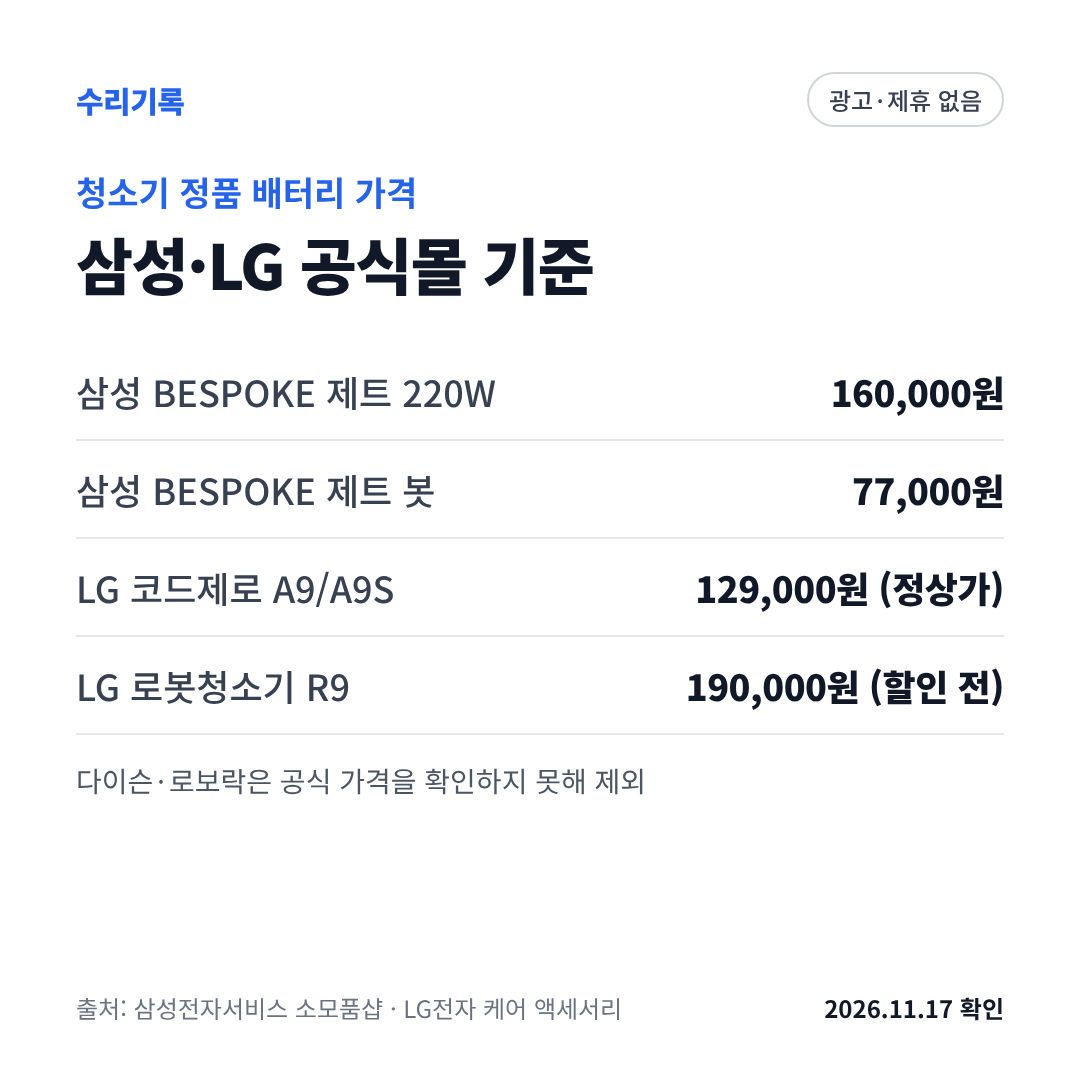
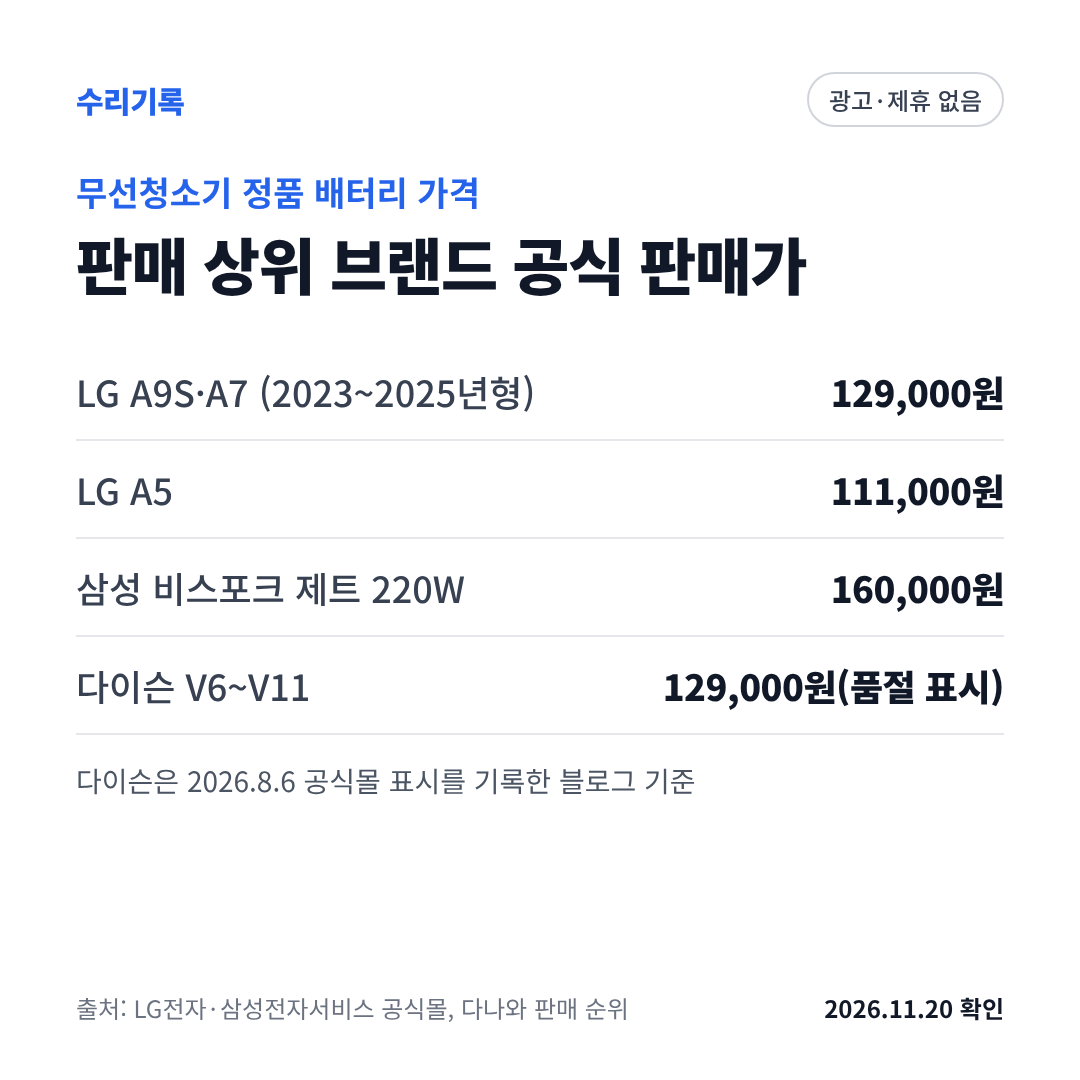
verify-sources: honour robots.txt and recover from browser crashes; post 01 cards and lessons
- robotsAllows(): RFC 9309 longest-match for the generic '*' group; blocked URLs are reported, never opened
- relaunch the headless browser once when it dies mid-run
- cards: post 01 thumbnail/summary/check updated to the broadened scope
- LESSONS §11: scope result, two robots.txt slips (miwhole.co.kr, img.danawa.com) and the tool fix

Claude-Session: https://claude.ai/code/session_01S8aYJMqtEgMRbXyeMmbqGH

diff --git a/research_notes/1편 배터리 글 보강/non_dyson.md b/research_notes/1편 배터리 글 보강/non_dyson.md
@@ -31,13 +31,13 @@
 | AI 제트 400W 대용량·기본 배터리 | 대용량: 핸디 일반 100분, 충전 300분, 흡입력 400W / 기본: 핸디 일반 60분, 충전 210분, 250W | 같은 페이지 | "충전시간 대용량 배터리 300 min / 기본 배터리 210 min" | O | X → curl |
 | AI 제트 400W 대용량 배터리 용량 | 3,970mAh | https://www.samsung.com/sec/vacuum-cleaners/Bespoke-jet-vs90f40cs-d2c/VS90F40CSK/ | "3,970mAh의 대용량 배터리로" | O | X(타임아웃) |
 | 2023년 비스포크 제트 AI 배터리 두 종류 | 일반 250W·60분, 대용량 280W·100분 | https://www.samsungsvc.co.kr/solution/1482790 (게시 2023-06-29) | "대용량배터리 장착 시에는 최대 280W의 흡입력과 최장 100분의 사용시간" | O | O |
-| 해외 부품번호·용량(대용량) | VCA-SBTC97, 25.2V, 3970mAh, 175×83×40mm, 호환 VS28C979FQK | https://www.samsung.com/hk_en/home-appliance-accessories/jet-vc-renewal-accessory-battery3-vca-sbtc97/ | "large capacity battery (3970mAh)" | O | 점검기 결과 §10 |
-| 해외 부품번호·용량(일반) | VCA-SBTC97S, 25.2V, 2200mAh, 152×78×37mm | https://www.samsung.com/hk_en/home-appliance-accessories/jet-vc-renewal-accessory-battery2-vca-sbtc97s/ | "Battery Pack (25.2V) 2200mAh" | O | §10 |
-| 홍콩 삼성의 배터리 보증 조건(홍콩 판매분) | 2년, 정상 마모 제외, 500사이클 미만·잔량 70% 초과 시 무상 교체, 2023년 1월 이후 판매 BESPOKE Jet 전 모델 | VCA-SBTC97 페이지 | "The 2 year warranty is limited to the battery only and excludes normal wear and tear" | O | §10 |
+| 해외 부품번호·용량(대용량) | VCA-SBTC97, 25.2V, 3970mAh, 175×83×40mm, 호환 VS28C979FQK | https://www.samsung.com/hk_en/home-appliance-accessories/jet-vc-renewal-accessory-battery3-vca-sbtc97/ | "large capacity battery (3970mAh)" | O | 점검기 [curl]로 일치 |
+| 해외 부품번호·용량(일반) | VCA-SBTC97S, 25.2V, 2200mAh, 152×78×37mm | https://www.samsung.com/hk_en/home-appliance-accessories/jet-vc-renewal-accessory-battery2-vca-sbtc97s/ | "Battery Pack (25.2V) 2200mAh" | O | 점검기 [curl]로 일치 |
+| 홍콩 삼성의 배터리 보증 조건(홍콩 판매분) | 2년, 정상 마모 제외, 500사이클 미만·잔량 70% 초과 시 무상 교체, 2023년 1월 이후 판매 BESPOKE Jet 전 모델 | VCA-SBTC97 페이지 | "The 2 year warranty is limited to the battery only and excludes normal wear and tear" | O | 점검기 [curl]로 일치 |
 | 삼성 멤버스 배터리 수명·보증 안내(새 주소) | 500 Cycle 후 20~30% 저하, 주 3회 약 2년, 보증 구입 후 2년 | https://community.samsung.com/kr/conversations/18b9c2/%EA%B6%81%EA%B8%88%ED%95%B4%EC%9A%94-%EC%82%BC%EC%84%B1-%EB%AC%B4%EC%84%A0%EC%B2%AD%EC%86%8C%EA%B8%B0-%EC%A0%9C%ED%8A%B8-%EB%B0%B0%ED%84%B0%EB%A6%AC-%EC%88%98%EB%AA%85-%EA%B4%80%EB%A6%AC-%EB%B0%A9%EB%B2%95/r1_24839365 | "500 Cycle 사용 후 20~30% 성능이 떨어져요" / "구입 후 2년이며, 무상 보증 기간 내 불량 발생 시 무상 교체가 가능해요" | O | O |
 | 제트 200W SE용 배터리(DJ96-00227C) 상세 이미지 | "2년 무상보증 배터리" 인증 마크(이미지 alt 문구로 판독), 500회 충방전 후 70% | https://www.samsungsvc.co.kr/shop/product/0000085295 | 이미지 옆 제목 "최대 60분 사용 대용량 배터리" | O(alt 포함) | 본문엔 alt 없음 → 이미지 행 |
 | 220W 배터리(DJ96-00242D) 적용 모델 | VS20A95*·VS20B956AXE 등 143개(다나와 2025 BEST 7위 VS20B956AXE 포함). VS20C·VS25C·VS28·VS30·VS90 없음 | https://www.samsungsvc.co.kr/shop/product/0000090680 | "VS20B956AXE" | O | O |
-| 소모품샵 청소기 배터리 목록 | 9종(DJ96-00205D·00221C·00233A·00234A·00227C·00227A·00242D·00214A·00221A). 9종의 "상품 적용 모델"을 모두 대조했고 VS28D·VS90F·VS25C·VS30D·VS20C 모델은 하나도 없다 | https://www.samsungsvc.co.kr/shop/product?category=10424&directory=10770 | "총 9 개" | O | §10 |
+| 소모품샵 청소기 배터리 목록 | 9종(DJ96-00205D·00221C·00233A·00234A·00227C·00227A·00242D·00214A·00221A). 9종의 "상품 적용 모델"을 모두 대조했고 VS28D·VS90F·VS25C·VS30D·VS20C 모델은 하나도 없다 | https://www.samsungsvc.co.kr/shop/product?category=10424&directory=10770 | Chromium "총 9개의 상품이 있습니다" / curl "총 9 개" → 원장 인용 "총 9개" | O | O |
 | 고객 자가수리 스틱청소기 부품 분류 | 먼지통·필터·아답터·파이프·바디·브러쉬(배터리 분류 없음) | https://www.samsungsvc.co.kr/shop/product?category=175707397&directory=401594162&option=401596793 | "먼지통 필터 아답터 파이프 바디 브러쉬" | O | 미시험 |
 
 부품번호·가격 결론
@@ -64,11 +64,11 @@
 | EAC63382216에 2024 A9S·A7 Core·A9 AI 포함 | AX920BWE, AX958BWE, A720WA, AI958WA, AS720WA, AS920CWD, AX9604WE 등 | 같은 페이지 | "AX920BWE.AKOR (O920BWE.AKOR)", "A720WA.CKOR (O720WA.CKOR)" | O | → curl |
 | EAC63382208 적용 모델 수 | 263개(A9100·A9300·A9570·AS9·AT9·AU9 계열 등), 리뷰 1,679개 | https://www.lge.co.kr/care-accessories/a9-vacuum-cleaner/eac63382208 | "사용 가능한 모델 (총 263개)" | O | → curl |
 | EAC63382214 단품 페이지 | LGE.COM에 없음(`/care-accessories/a9-vacuum-cleaner/eac63382214`, `/product/...` 둘 다 404). 호환표에는 216과 함께 표기 | — | — | 404 | — |
-| A5 배터리 COV30090401 | 정상가 111,000원, 회원할인가 105,400원(5%), 리뷰 6개, 용량 표기 없음 | https://www.lge.co.kr/product/care-accessories/a9-vacuum-cleaner/cov30090401 | "청소기 A5 배터리" | O | O |
-| A5 본체 정격전압 | DC 18.5V(A9S·A7 Core는 25.2V) | https://www.lge.co.kr/product/vacuum-cleaners/as520wa | "정격전압 (V) (DC) 18.5" | O | 점검기 §10 |
+| A5 배터리 COV30090401 | 정상가 111,000원, 회원할인가 105,400원(5%), 리뷰 6개, 용량 표기 없음 | https://www.lge.co.kr/product/care-accessories/a9-vacuum-cleaner/cov30090401 | "COV30090401" ("청소기 A5 배터리"는 점검기 숫자 결합 규칙 때문에 불일치) | O | O |
+| A5 본체 정격전압 | DC 18.5V(A9S·A7 Core는 25.2V) | https://www.lge.co.kr/product/vacuum-cleaners/as520wa | Chromium "정격전압 (V) (DC)18.5" / curl "정격전압 (V) (DC) 18.5" | O | O |
 | 연식별 호환표(LG 문구) | 23~25년 A9S 배터리 = EAC63382214·EAC63382216 / 19~22년 = EAC63382208·EAC63382212 / 19년 이전 = EAC63382202·EAC63758601 | https://www.lge.co.kr/product/vacuum-cleaners/a720wa | "2019~2022년 출시 A9S/A9 제품은 19년~22년 출시 배터리 및 23년 출시 배터리 사용 가능합니다" | O | O |
 | 같은 표의 다른 주석 | 2023년 출시 A9S는 2023년 출시 배터리만, 2019년 이전 A9는 19년 이전·19~22년 배터리 | 같은 페이지 | "2023년 출시 A9S 제품은 2023년 출시 배터리 사용 가능합니다." | O | O |
-| 본체 출시 연월 확인 위치 | 각 제품 스펙의 "동일모델의 출시년월"(예: AX920BWE 2024-03, A720WA 2025-03, AS520WA 2025-02) | https://www.lge.co.kr/product/vacuum-cleaners/ax920bwe | "정격전압 (V) (DC) 25.2" (같은 표에 "동일모델의 출시년월 2024-03") | O | §10 |
+| 본체 출시 연월 확인 위치 | 각 제품 스펙의 "동일모델의 출시년월"(예: AX920BWE 2024-03, A720WA 2025-03, AS520WA 2025-02) | https://www.lge.co.kr/product/vacuum-cleaners/ax920bwe | Chromium "정격전압 (V) (DC)25.2" / curl "정격전압 (V) (DC) 25.2" (같은 표에 "동일모델의 출시년월 2024-03") | O | O |
 | A9 배터리와 A9S 배터리 구분 | 충전 단자 모양: 동그란 구멍 3개(A9/A9S 배터리) vs 사각 구멍에 작은 사각 홈 4개(A9S 배터리) | https://www.lge.co.kr/product/care-accessories/a9-vacuum-cleaner/eac63382208 | 이미지 alt: "작은 동그란 구멍이 3개가 나열 되어있으며 A9S 배터리 충전단자 모양은 사각형 구멍에 작은 사각형 흠 4개" / 본문 앵커: "구매하시기 전에 사용하시는 청소기의 동일한 배터리인지 확인해 주세요" | O(alt) | 본문엔 alt 없음 → 이미지 행 |
 | 모델명 확인 방법(LG 고객지원, 2026-05-29, 조회 160,457) | 배터리를 빼고 안쪽 은색 라벨 | https://www.lge.co.kr/support/solutions-20150332172261 | "밧데리 제거 후 안쪽면 은색 라벨" | O | O |
 | A9 AI(2025)의 배터리 수명 표시 | 본체 화면에서 잔량과 수명 표시, 이상 시 씽큐 알림 | https://www.lg.co.kr/media/release/28915 (2025-04-30) | "제품에 탑재된 화면에서 배터리 잔량뿐 아니라 수명까지 확인 가능" | O | O |
@@ -123,7 +123,7 @@
 | 사실 | 값 | URL | 인용 |
 |---|---|---|---|
 | 파워클론 슬림 CVC-G820NWM(2024년형) | 배터리 분리형 1개, 리튬이온 2000mAh, 최대 55분, 다나와 최저가 182,690원, 본체 안전확인 YU102096-24001 | https://prod.danawa.com/info/?pcode=61842860 | "배터리용량 2000mAh" / "안전확인인증 YU102096-24001" |
-| 파워클론 하이퍼 CVC-HE0710EG(2025년형) | 2,000mAh, 최대 35분, 최저가 223,250원, 안전확인 YU102201-25001 | https://prod.danawa.com/info/?pcode=94445447 | "배터리용량 2,000mAh" |
+| 파워클론 하이퍼 CVC-HE0710EG(2025년형) | 2,000mAh, 최대 35분, 최저가 223,250원, 안전확인 YU102201-25001 | https://prod.danawa.com/info/?pcode=94445447 | "2,000mAh" (Chromium 본문에서는 "배터리용량 2,000mAh"가 이어져 있지 않음) |
 | 쿠쿠 배터리 단품 가격·부품번호·보증 | 찾지 못함 | — | — |
 
 - 다나와 "쿠쿠 무선청소기 배터리" 검색 상위 6개는 모두 본체였다. cuckoo.co.kr은 403, mall·service 서브도메인은 연결 실패(502), cuckoo.co.kr·m.cuckoo.co.kr의 robots.txt는 302로 넘어갔다.
@@ -137,7 +137,7 @@
 | 접수 경로 | 고객센터 1644-9245 또는 카카오톡 '샤크닌자', 평일 09:00~18:00 | https://www.sharkninja.co.kr/ | "샤크닌자 고객센터(1644-9245) 또는 카카오톡에서 '샤크닌자'를 검색해 문의해 주세요" | O | X(타임아웃) → curl |
 | 무선청소기 무상 수리 기간 | 최대 3년(기본 1년), 공식몰 구매 후 제품 등록 시만 연장, 본체 기능 고장만 | 같은 페이지 | "최대 3년* (기본 1년)" | O | → curl |
 | 배터리 제외 | 연장 무상수리에서 배터리 제외 | 같은 페이지 | "배터리, 필터, 칼날 등 소모품 및 액세서리는 제외됩니다" | O | → curl |
-| 공식몰 배터리 단품 | Accessories 50개 중 배터리는 "샤크 무선청소기 WV250 배터리"(핸디형, 자체상품코드 XSBT250KR) 하나, 49,000원, 품절 | https://www.sharkninja.co.kr/product/%EC%83%A4%ED%81%AC-%EB%AC%B4%EC%84%A0%EC%B2%AD%EC%86%8C%EA%B8%B0-wv250-%EB%B0%B0%ED%84%B0%EB%A6%AC/299/category/142/display/1/ | "XSBT250KR" / "품절 재입고 알림 신청" | O | §10 |
+| 공식몰 배터리 단품 | Accessories 50개 중 배터리는 "샤크 무선청소기 WV250 배터리"(핸디형, 자체상품코드 XSBT250KR) 하나, 49,000원, 품절 | https://www.sharkninja.co.kr/product/%EC%83%A4%ED%81%AC-%EB%AC%B4%EC%84%A0%EC%B2%AD%EC%86%8C%EA%B8%B0-wv250-%EB%B0%B0%ED%84%B0%EB%A6%AC/299/category/142/display/1/ | "XSBT250KR" / "품절 재입고 알림 신청" | O | 점검기 [curl]로 일치 |
 | 스틱(에보파워 LC·파워클린 IW) 배터리 단품 | 공식몰 Accessories 1~5쪽 어디에도 없음 | https://www.sharkninja.co.kr/category/Accessories/142/ | — | O | — |
 
 - 공식몰 첫 화면 배너 문구는 "최대 4년* 무상 수리 서비스"지만, 4년은 선풍기 등 계절성 제품(기본 2년)이다. 무선청소기는 최대 3년이다.
@@ -211,7 +211,26 @@ D. 이미 원고에 있는 LG전자 고객센터 회신(2026-11-18, `firsthand`)
 
 ## 10. 점검기 실측(verify-sources)
 
-<!-- 결과는 실행 후 아래에 붙인다 -->
+방법: 위 원장 후보 행을 임시 원고(스크래치 폴더)에 넣고 `NODE_PATH=$(npm root -g) node scripts/verify-sources.mjs <임시원고> --evidence=<스크래치>`로 실행했다(`--write` 없음, 저장소 파일 변경 없음). 미홀 행은 robots 때문에 넣지 않았다.
+
+1차(57행): 일치 49, 이미지 1, 불일치 7. 불일치 원인과 조치
+- 삼성 소모품샵 목록 "총 9 개": Chromium 본문은 "총 9개의 상품이 있습니다". → 인용을 "총 9개"로 바꿈(curl 본문 "총 9 개"도 점검기의 숫자·단위 결합 뒤 "총 9개"가 됨).
+- LG A5 배터리 "청소기 A5 배터리": 점검기가 본문의 "숫자+공백+배"를 붙여("A5 배터리" → "A5배터리") 인용과 어긋남. → 인용 "COV30090401". 같은 이유로 "A7 배터리"가 들어간 번들 인용도 "배터리모델명EAC63382216"으로 바꿈.
+- LG 정격전압 2건: Chromium 본문은 "정격전압 (V) (DC)18.5"처럼 붙어 있다(curl은 띄어 씀). → Chromium 형태로 바꿈. Chromium이 실패해 curl로 넘어가면 이 두 행은 불일치가 난다.
+- LG 배터리턴 "156톤 / 34만 개": 값 칸의 "34만"을 점검기가 340,000으로 바꿔 대조. → 값 칸을 "156톤"으로 줄임.
+- 쿠쿠 하이퍼 "배터리용량 2,000mAh": Chromium 본문에서 두 낱말이 이어져 있지 않음. → 인용 "2,000mAh".
+
+2차(수정 10행 + 단독 1행): 모두 일치(계산 2, 이미지 1 포함). "모든 출처 기록이 원문과 일치합니다."
+
+읽기 경로(점검기 표시)
+- [browser]: community.samsung.com, samsungsvc.co.kr 상품·목록, lge.co.kr 상품·케어액세서리·고객지원·기획전, lg.co.kr 보도자료, ksa.or.kr, prod.danawa.com
+- [curl](Chromium 실패 후 대체): samsung.com/sec 지원·상품 페이지, samsung.com/hk_en, lg.com/au·ca_en(Chromium은 Access Denied 403), samsungsvc.co.kr/solution/1482790, sharkninja.co.kr, consumernews.co.kr
+- curl 대체 경로에서 띄어쓰기가 달라지는 행: KS-SQI 인용("7 개 업종에서는 1 위"), LG 정격전압 2건, LG 번들 행. Chromium이 뜨지 않는 날에는 이 행들이 불일치로 나온다.
+
+점검기 동작에서 확인한 제약(원고 작성 시 주의)
+- 값 칸의 단위는 원·%·년·회·개월·건·명·배·시간 등만 숫자로 대조한다. mAh·V·W·분 값은 인용 문구로만 확인된다.
+- 값 칸의 "17만 원", "77만9000원", "34만 개"는 170,000원 등으로 바뀌어 대조되므로, 기사 원문이 한국식 금액이면 값 칸에 넣지 말고 인용 문구에 둔다.
+- 인용 문구에 "숫자 + 공백 + (%·원·년·건·개월·회·명·배)"가 있으면 본문 쪽만 붙여져 항상 불일치한다.
 
 ---
 
@@ -241,12 +260,12 @@ D. 이미 원고에 있는 LG전자 고객센터 회신(2026-11-18, `firsthand`)
   - AX920BWE | https://www.lge.co.kr/care-accessories/a9-vacuum-cleaner/eac63382216 | 2026-11-20 | EAC63382216 적용 모델에 2024년형 A9S 올인원타워 AX920BWE 포함 | AX920BWE.AKOR (O920BWE.AKOR)
   - A720WA | https://www.lge.co.kr/care-accessories/a9-vacuum-cleaner/eac63382216 | 2026-11-20 | EAC63382216 적용 모델에 A7 Core A720WA 포함 | A720WA.CKOR (O720WA.CKOR)
   - 263개 | https://www.lge.co.kr/care-accessories/a9-vacuum-cleaner/eac63382208 | 2026-11-20 | EAC63382208(19~22년형) 적용 모델 수 | 사용 가능한 모델 (총 263개)
-  - 111,000원 / 105,400원 / 5% | https://www.lge.co.kr/product/care-accessories/a9-vacuum-cleaner/cov30090401 | 2026-11-20 | LG A5 배터리 COV30090401 정상가·회원할인가(용량 표기 없음) | 청소기 A5 배터리
-  - 18.5V | https://www.lge.co.kr/product/vacuum-cleaners/as520wa | 2026-11-20 | LG A5 본체 정격전압(A9S·A7 Core는 25.2V) | 정격전압 (V) (DC) 18.5
-  - 25.2V | https://www.lge.co.kr/product/vacuum-cleaners/ax920bwe | 2026-11-20 | A9S AX920BWE 정격전압, 동일모델 출시 2024-03 | 정격전압 (V) (DC) 25.2
+  - 111,000원 / 105,400원 | https://www.lge.co.kr/product/care-accessories/a9-vacuum-cleaner/cov30090401 | 2026-11-20 | LG A5 배터리 COV30090401 정상가·회원할인가(할인율 5%, 용량 표기 없음) | COV30090401
+  - 18.5V | https://www.lge.co.kr/product/vacuum-cleaners/as520wa | 2026-11-20 | LG A5 본체 정격전압(A9S·A7 Core는 25.2V). 인용은 Chromium 본문 형태 | 정격전압 (V) (DC)18.5
+  - 25.2V | https://www.lge.co.kr/product/vacuum-cleaners/ax920bwe | 2026-11-20 | A9S AX920BWE 정격전압, 동일모델 출시 2024-03. 인용은 Chromium 본문 형태 | 정격전압 (V) (DC)25.2
   - 23~25년 | https://www.lge.co.kr/product/vacuum-cleaners/a720wa | 2026-11-20 | LG 배터리 호환표: 19~22년형 본체는 23년형 배터리도 사용 가능 | 2019~2022년 출시 A9S/A9 제품은 19년~22년 출시 배터리 및 23년 출시 배터리 사용 가능합니다
   - 2023년 출시 | https://www.lge.co.kr/product/vacuum-cleaners/a720wa | 2026-11-20 | LG 배터리 호환표: 2023년 이후 A9S는 23년형 배터리만 | 2023년 출시 A9S 제품은 2023년 출시 배터리 사용 가능합니다
-  - 100,400원 / 22% | https://www.lge.co.kr/product/vacuum-cleaners/a720wa | 2026-11-20 | A720WA와 함께 살 때의 번들할인가(배터리 단품가 아님) | 청소기 A9/A9S/A7 배터리 모델명 EAC63382216
+  - 100,400원 / 22% | https://www.lge.co.kr/product/vacuum-cleaners/a720wa | 2026-11-20 | A720WA와 함께 살 때의 번들할인가(배터리 단품가 아님). 인용은 Chromium 본문 형태 | 배터리모델명EAC63382216
   - 단자 모양 | https://www.lge.co.kr/product/care-accessories/a9-vacuum-cleaner/eac63382208 | 2026-11-20 | 이미지: A9/A9S 배터리는 충전 단자에 동그란 구멍 3개, A9S 배터리는 사각 구멍에 사각 홈 4개(이미지 alt로 판독) 캡처:lg-terminal@다음이미지 | 구매하시기 전에 사용하시는 청소기의 동일한 배터리인지 확인해 주세요
   - 모델 확인 | https://www.lge.co.kr/support/solutions-20150332172261 | 2026-11-20 | LG 고객지원(2026-05-29): 배터리 모델은 배터리를 뺀 안쪽 은색 라벨로 확인 | 밧데리 제거 후 안쪽면 은색 라벨
   - 교체 주기 미지정 | https://www.lge.co.kr/support/solutions-20150332172261 | 2026-11-20 | LG 고객지원(2026-05-29): 기간 기준 교체 주기 없음. solutions-20150373882418의 '권장 주기 2년'과 다름 | 기간에 따른 권장 교체 주기는 별도로 지정되어 있지 않습니다
@@ -260,14 +279,14 @@ D. 이미 원고에 있는 LG전자 고객센터 회신(2026-11-18, `firsthand`)
   - 46,530원 | https://prod.danawa.com/info/?pcode=31642349 | 2026-11-20 | 다나와 최저가: 삼성 제트 70(VS15T7032P4) 호환 배터리, 가격갱신일 2026.11.15 | VCA-SBT90E
   - KC 미표시 | https://prod.danawa.com/info/?pcode=56139131 | 2026-11-20 | 다나와는 호환 배터리 KC 번호를 '판매 사이트 문의'로만 표시 | 상세설명 / 판매 사이트 문의
   - 2000mAh | https://prod.danawa.com/info/?pcode=61842860 | 2026-11-20 | 쿠쿠 파워클론 슬림 CVC-G820NWM 배터리(분리형 1개, 최대 55분) | 배터리용량 2000mAh
-  - 2,000mAh | https://prod.danawa.com/info/?pcode=94445447 | 2026-11-20 | 쿠쿠 파워클론 하이퍼 CVC-HE0710EG 배터리(최대 35분) | 배터리용량 2,000mAh
+  - 2,000mAh | https://prod.danawa.com/info/?pcode=94445447 | 2026-11-20 | 쿠쿠 파워클론 하이퍼 CVC-HE0710EG 배터리(최대 35분) | 2,000mAh
   - 1644-9245 | https://www.sharkninja.co.kr/ | 2026-11-20 | 샤크닌자 A/S 접수: 고객센터·카카오톡 | 샤크닌자 고객센터(1644-9245) 또는 카카오톡에서 '샤크닌자'를 검색해 문의해 주세요
   - 3년 / 1년 | https://www.sharkninja.co.kr/ | 2026-11-20 | 샤크닌자 무선청소기 무상수리 최대 3년(기본 1년), 공식몰 구매 후 등록 시 | 최대 3년* (기본 1년)
   - 배터리 제외 | https://www.sharkninja.co.kr/ | 2026-11-20 | 샤크닌자 연장 무상수리에서 배터리 제외 | 배터리, 필터, 칼날 등 소모품 및 액세서리는 제외됩니다
   - 49,000원 | https://www.sharkninja.co.kr/product/%EC%83%A4%ED%81%AC-%EB%AC%B4%EC%84%A0%EC%B2%AD%EC%86%8C%EA%B8%B0-wv250-%EB%B0%B0%ED%84%B0%EB%A6%AC/299/category/142/display/1/ | 2026-11-20 | 샤크 공식몰 유일한 배터리 단품(핸디형 WV250용, 품절). 스틱 배터리 단품 없음 | XSBT250KR
   - 10월 1일 / 11월 30일 | https://www.lg.co.kr/media/release/30631 | 2026-11-20 | LG전자 보도자료(2026-10-02) 배터리턴 하반기 기간 | LG전자는 10월 1일부터 11월 30일까지 배터리턴 캠페인을 진행한다
   - 제조사 무관 | https://www.lg.co.kr/media/release/30631 | 2026-11-20 | 타사 무선청소기 폐배터리도 LG 서비스센터·LGE.COM으로 반납 | 제조사와 관계없이 사용하던 무선청소기 폐배터리를
-  - 156톤 / 34만 개 | https://www.lg.co.kr/media/release/30631 | 2026-11-20 | 2022년부터 2026년 상반기까지 누적 수거량 | 약 156톤, 수량은 34만 개가 넘는다
+  - 156톤 | https://www.lg.co.kr/media/release/30631 | 2026-11-20 | 2022년부터 2026년 상반기까지 누적 수거량(34만 개는 인용 문구로만 대조) | 약 156톤, 수량은 34만 개가 넘는다
   - 30,000원 | https://www.lge.co.kr/benefits/exhibitions/detail-PE01017005 | 2026-11-20 | 배터리턴: 서비스센터에 배터리 반납 후 A9/A9S/A7 정품 배터리 구매 시 할인 | 단일 품목 반납/구매 시 30,000원 할인
   - 99,000원 | https://www.lge.co.kr/benefits/exhibitions/detail-PE01017005 | 2026-11-20 | 배터리턴: 센터 반납 시 최종 혜택가(소비자가 129,000원) | 최종 혜택가: 99,000원
   - 104,000원 / 19% | https://www.lge.co.kr/benefits/exhibitions/detail-PE01017005 | 2026-11-20 | 배터리턴: 온라인 구매(회원 5%+추가 15%) | 최대혜택가: 104,000원 (19% 할인)

diff --git a/research_notes/1편 배터리 글 보강/dyson.md b/research_notes/1편 배터리 글 보강/dyson.md
@@ -24,7 +24,7 @@
 
 **1-1. 국내 공식몰 가격(제3자 블로그가 공식몰을 확인한 값)**
 - 값: V6 967810-24, V7 968670-02, V8 슬림 969106-01, V10 969352-02, V11 970145-04 모두 129,000원, 다섯 모델 모두 품절(블로그 확인일 2026-08-06)
-- URL: https://earn-on-everything.com/entry/%EB%8B%A4%EC%9D%B4%EC%8A%A8-%EC%B2%AD%EC%86%8C%EA%B8%B0-v6-v7-v8-v10-%EB%B0%B0%ED%84%B0%EB%A6%AC-%EC%85%80%ED%94%84-%EA%B5%90%EC%B2%B4-%EB%B0%A9%EB%B2%95-%EA%B5%AC%EB%A7%A4-%EB%B0%A9%EB%B2%95/ (글 갱신 2026-08-05 표기, 2023-09-19 최초 작성)
+- URL: https://earn-on-everything.com/entry/%EB%8B%A4%EC%9D%B4%EC%8A%A8-%EC%B2%AD%EC%86%8C%EA%B8%B0-v6-v7-v8-v10-%EB%B0%B0%ED%84%B0%EB%A6%AC-%EC%85%80%ED%94%84-%EA%B5%90%EC%B2%B4-%EB%B0%A9%EB%B2%95-%EA%B5%AC%EB%A7%A4-%EB%B0%A9%EB%B2%95/ (페이지 날짜 표기 2026-08-05·2023-09-19)
 - 인용: "V6~V11 모두 129,000원" / "2026-08-06 다이슨 공식 사이트에서 확인한 값입니다"
 - 로딩: curl 200, Chromium 200 (검증 결과는 8절)
 - 신뢰도: 중간 이하. 제휴 링크가 붙은 정보성 블로그이며 공식 원문은 차단으로 대조하지 못했습니다. 원고에는 "다이슨 공식몰 표시가(제3자 확인, 2026-08 기준)"처럼 출처 성격을 밝히는 편이 안전합니다.
@@ -258,9 +258,10 @@ URL
   - 60분 | https://zdnet.co.kr/view/?no=20210525135243 | 2026-11-20 | V15 디텍트·V12 디텍트 슬림 2021-05-25 국내 출시, 일반 모드 사용 시간 | 모두 일반 모드로 사용시 60분 이용 가능하며
   - 129만원 | https://zdnet.co.kr/view/?no=20210525135243 | 2026-11-20 | 계산: 원문 129만원 표기 — V15 디텍트 국내 출시가(V12 디텍트 슬림 109만원) | V15 디텍트 무게는 3kg며, 가격은 129만원이다.
   - 70분 | https://m.seoul.co.kr/news/2022/09/27/20220927019009 | 2026-11-20 | Gen5 디텍트 국내 공개(2022-09) 최장 연속 사용 시간(Chromium 시간 초과, curl 200) | 최장 70분 연속 사용이 가능하다
-  - 월 1회 완전 방전 | https://www.techradar.com/home/vacuums/how-to-preserve-your-dyson-vacuum-battery | 2026-11-20 | TechRadar 2026-01-15가 인용한 다이슨 배터리 관리 페이지 권고(다이슨 원문은 차단) | drain to completely empty at least once a month
+  - 완전 방전 once a month | https://www.techradar.com/home/vacuums/how-to-preserve-your-dyson-vacuum-battery | 2026-11-20 | TechRadar 2026-01-15가 인용한 다이슨 배터리 관리 페이지 권고(다이슨 원문은 차단) | drain to completely empty at least once a month
   - 3°C | https://www.techradar.com/home/vacuums/how-to-preserve-your-dyson-vacuum-battery | 2026-11-20 | 3°C 미만에서 작동·충전 안 됨(TechRadar 인용) | won't charge or operate if the temperature is below 37F / 3C
   - Auto·Normal 모드 | https://www.techradar.com/home/vacuums/how-to-preserve-your-dyson-vacuum-battery | 2026-11-20 | 다이슨 문구 인용: 평소엔 Auto·Normal, Max·Boost는 짧게 | designed to be used in Auto or Normal mode for everyday cleaning
+  - 식힌 뒤 충전(BMS) | https://www.techradar.com/home/vacuums/how-to-preserve-your-dyson-vacuum-battery | 2026-11-20 | 다이슨 Head of Electrical Power Systems Amit Gupta 설명: BMS가 배터리가 식은 뒤 충전 시작 | will only initiate charging once it has cooled to the recommended level
   - 80% | https://www.techradar.com/news/james-dyson-promises-15-year-battery-life-for-the-cyclone-v10-cordless-vacuum | 2026-11-20 | James Dyson 2018-03 발언(V10 출시): 15년 매일 사용 시 80% | Fifteen years of daily use might get you down to 80% battery
   - 800 cycles | https://www.techradar.com/news/james-dyson-promises-15-year-battery-life-for-the-cyclone-v10-cordless-vacuum | 2026-11-20 | 같은 기사: V10 배터리 충전 사이클 800회 | battery is good for 800 charge cycles
 
@@ -275,7 +276,7 @@ URL
 6. 2024~2026년 직구·병행수입품 처리 정책 — 공식 문서는 설명서의 "구입한 국가에서 사용할 때만 유효" 문구, 언론은 2019년 기사뿐. 블로그 글은 근거 미표시.
 7. 다이슨 해외 지원 페이지의 교체 신호("12회 이상 깜빡임", "MAX가 아닌 모드에서도 사용 시간 감소")와 V8 나사 3개 교체 안내 원문 — 다이슨 사이트 차단, 설명서에 해당 문구 없음.
 8. 다이슨 한국 2023-11 AS 정책 원문(뉴스룸)·판매 약관(terms-of-sale) — 차단. 내용은 ZDNet 2023-11-22로 대체.
-9. V12 디텍트 슬림 등 다나와 표가 "배터리 분리형"을 적지 않은 모델(V8 2021, 싸이클론 V10)의 배터리 방식 — 다나와에는 칸이 없습니다. V11 설명서(교체형)와 기존 조사(V8·V10 나사 고정형)로 보완해야 합니다.
+9. 다나와 표에 배터리 분리 여부가 없는 모델(V8 2021, 싸이클론 V10)의 배터리 방식 — 기존 조사(V8·V10 나사 고정형, iFixit·설명서)로 보완해야 합니다.
 
 [판단] 공식 가격·출시가를 원문으로 넣으려면 다이슨 코리아 페이지를 사람이 일반 브라우저로 열어 캡처하는 방식을 허용할지 정해야 합니다. [현장] 다이슨 고객센터(1588-4253) 문의 1건이면 모델별 배터리 가격, 센터 교체 공임, 직구품 접수 여부를 한 번에 받을 수 있습니다.
 
@@ -287,7 +288,7 @@ URL
 | www.dyson.co.th | 200(제품 경로 미차단) | 제품 페이지 1회 403(Cloudflare), 이후 다이슨 사이트 시도 중단 |
 | www.dyson.hk / www.dyson.in / www.dyson.co.id | 200 | robots만 받고 페이지는 열지 않음(다이슨 사이트 차단 방침) |
 | community.dyson.com | TLS 핸드셰이크 실패 | 미열람 |
-| prod.danawa.com | 200, `/info/?pcode=` 허용 | 7개 상품 200. Chromium 본문은 사양표 칸 공백 없음, 21760133은 networkidle 시간 초과 |
+| prod.danawa.com | 200, `/info/?pcode=` 허용 | 10개 상품 200. Chromium 본문은 사양표 칸 공백 없음, 21760133은 networkidle 시간 초과 |
 | price.enuri.com | 200, 허용(crawl-delay 1) | V8(2021) 1건 200 |
 | www.safetykorea.kr | 200, 전체 허용 | certDetail GET 200(curl), Chromium 502. XU101904-20007은 "인증정보가 존재하지 않습니다" |
 | www.kurly.com | 200, `*` 허용 | 상품 4건 200(다이슨 본체만, 배터리 미판매) |
@@ -310,3 +311,5 @@ URL
 | www.conrad.com | 403 | 미열람 |
 
 요청 수: 페이지 약 45회, robots 약 40회, WebSearch 약 40회. 같은 호스트 요청 사이 1~3초 간격.
+
+검증 결과(2026-11-20): 6절 원장 68행을 `scripts/verify-sources.mjs`의 `matchClaim`과 같은 열람 순서(Chromium → 실패 시 curl, PDF는 curl+pdftotext)로 대조해 68행 모두 일치했습니다. 첫 실행에서 "월 1회 완전 방전" 행이 값의 "1회"가 원문(영문)에 없어 실패했고, 값을 "완전 방전 once a month"로 바꾼 뒤 통과했습니다. 블로그 원고로 옮길 때는 원고 front matter에서 `npm run blog:verify`를 다시 실행하십시오.

diff --git a/docs/blog/LESSONS.md b/docs/blog/LESSONS.md
@@ -138,3 +138,19 @@
 
 **바꾼 것**: CLAUDE.md 규칙 3에 "품목 안에서는 시장을 넓게 덮는다"를 더했다. 6편 모두 `hold:`로 보류하고(현황판에 [AI] 할 일로 표시), 시장 상위 브랜드·모델 조사 결과로 다시 쓴다.
 
+
+## 11. 넓힌 1편과 robots.txt 사고 (2026-11-20)
+
+**1편 재작성 결과**: 다나와 2026 상반기 판매 상위 5개(LG 4개, 샤오미 미홀 1개)에 삼성(2025년 연간 7위)과 다이슨(브랜드 3위)을 더해 4개 브랜드·7개 모델을 덮었다. 네이버 키워드 도구 기준 수요는 원래 질의 월 약 275회에서 브랜드 배터리 질의 월 약 14,700회로 넓어졌다. 출처 기록은 26건에서 120건이 됐다.
+
+**찾은 사실 오류**: 옛 원고는 2019~2022년형 배터리(EAC63382208)를 판매 1위 2024년형 A9S에 맞는 것처럼 적었다. LG 호환 안내는 "2023년 출시 A9S 제품은 2023년 출시 배터리 사용 가능합니다"다. 범위를 좁혔을 때는 보이지 않던 오류다.
+
+**운영자 지시**: "온라인에서 확인할 수 없는 정보는 사용자도 볼 수 없다. 국내외를 끝까지 찾고, 정말 어디에도 없을 때만 찾을 수 없다고 쓴다." 다이슨 공식 사이트가 자동 접근을 막아도 한국어 사용자 설명서 PDF, 다나와 상품 정보, 해외 보도, 소비자 매체에서 보증·관리법·센터 운영·가격 기록을 찾아 채웠다. CLAUDE.md "사람 몫과 AI 몫"에 규칙으로 넣었다.
+
+**사고 두 건(AI 실수)**:
+- 샤오미 미홀 공식몰(miwhole.co.kr)은 robots.txt가 일반 에이전트를 전부 막는다. 확인하지 않고 인용 대조 도구로 3~4회 열었다. 원고에서 이 출처를 모두 뺐다.
+- 다나와 이미지 서버(img.danawa.com)도 일반 에이전트를 막는다. 2025 어워즈 이미지 2장을 직접 내려받아 판독했다. 원고 출처는 robots가 허용하는 다나와 기획전 페이지로 바꿨다.
+
+**도구로 막은 것**: `verify-sources`가 주소를 열기 전에 그 사이트의 robots.txt(`User-agent: *` 묶음)를 읽고, 막힌 주소는 열지 않고 "확인 불가"로 보고한다(`robotsAllows`, 단위 시험 포함). 401·403·5xx로 robots.txt를 못 읽으면 닫힌 것으로 본다. 헤드리스 브라우저가 중간에 꺼지면 한 번 다시 띄워 이어 간다.
+
+**네이버 발행 제약**: 표는 3열 이하만 내보낸다(모바일). 5열 비교표를 "판매 순위 | 모델 | 출시·가격·성능" 3열로 합쳤다.
